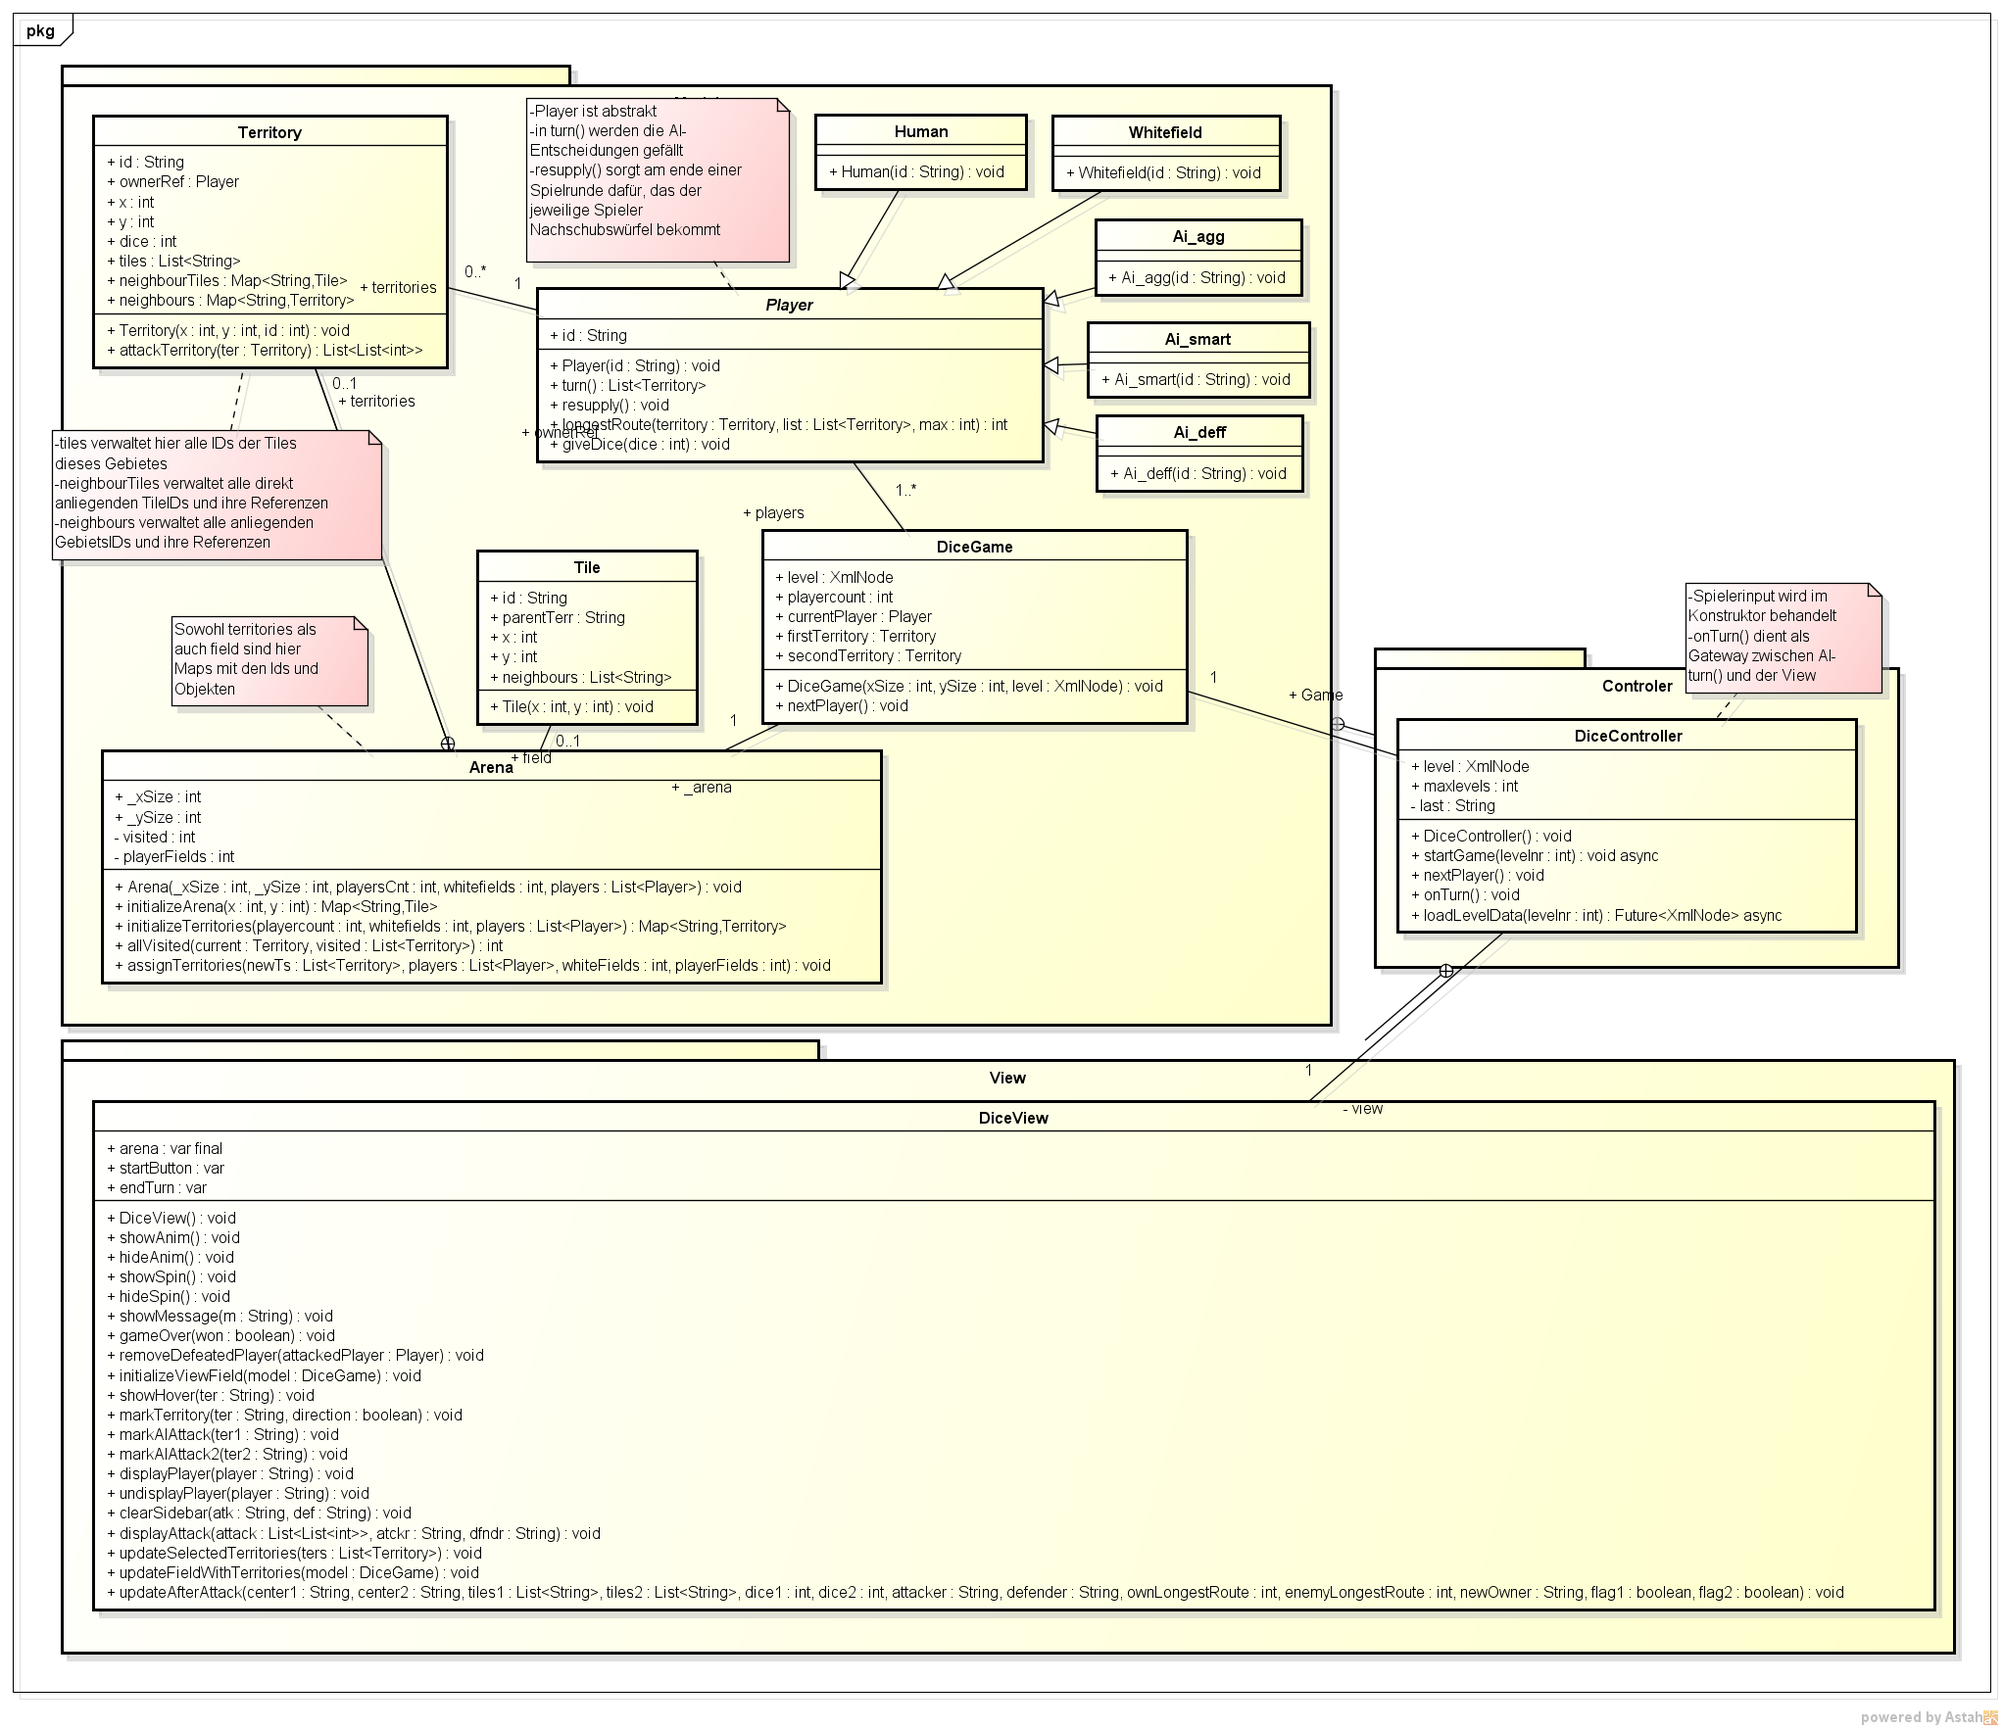
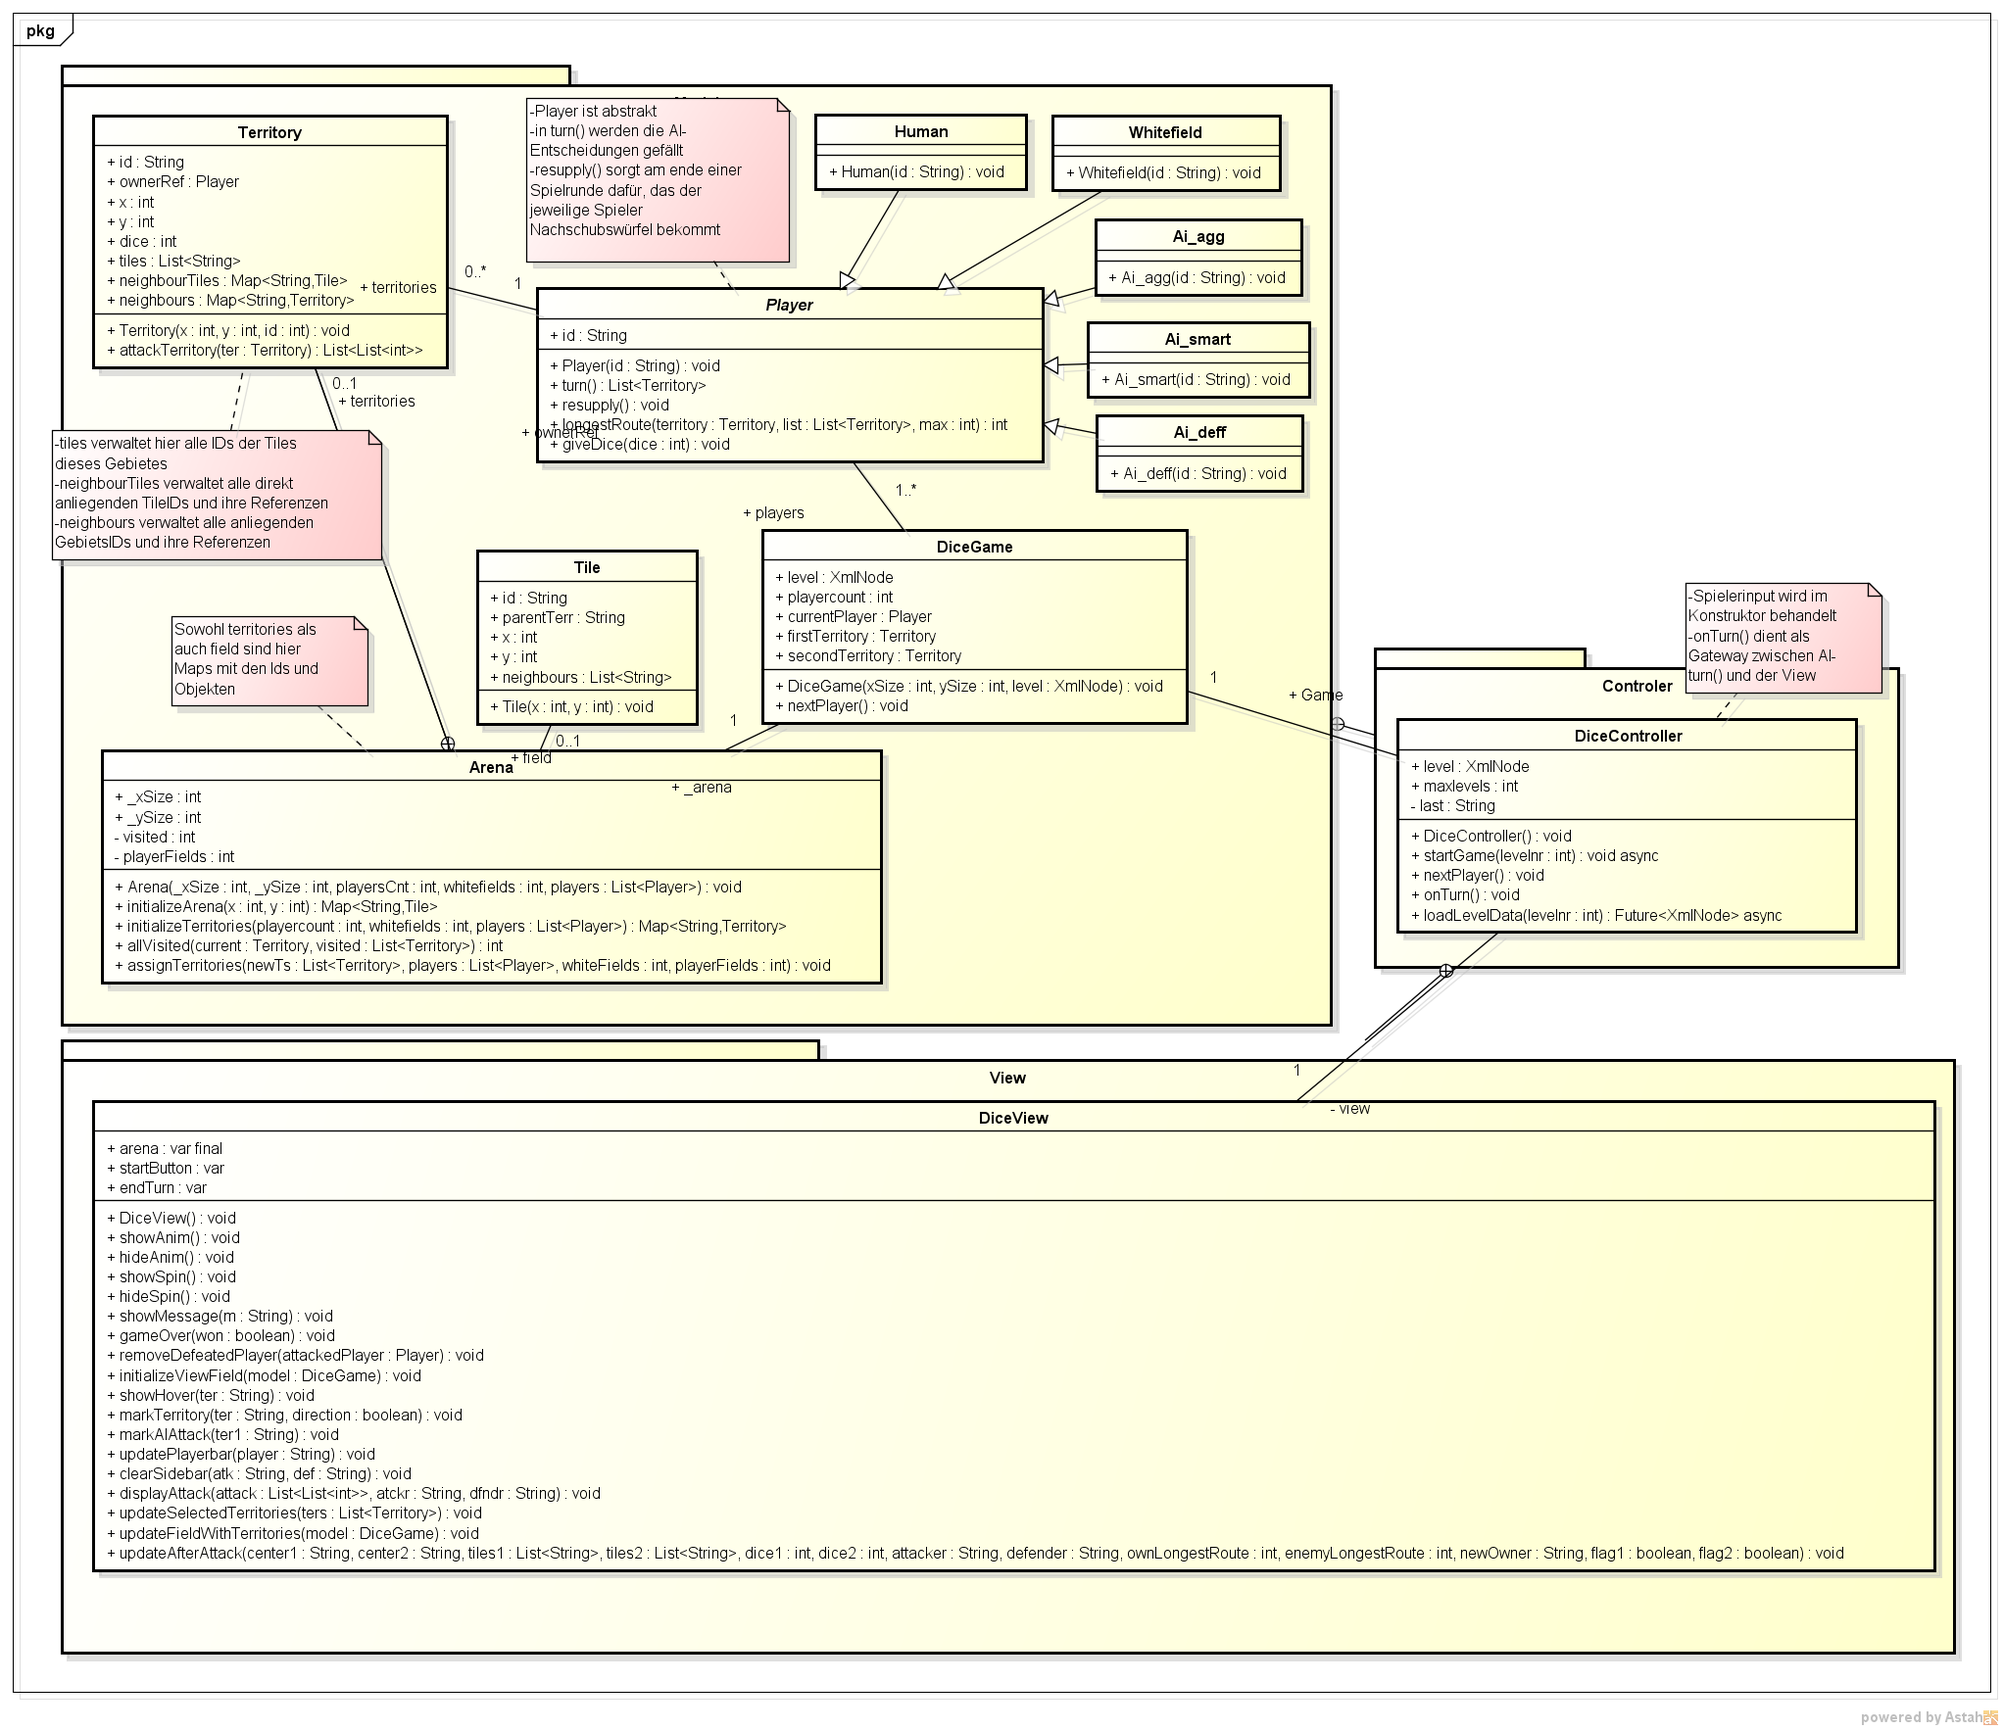
COmments af.-

Changed region(s): [[0.0308, 0.8409, 0.9863, 0.9343]]

diff --git a/lib/src/view.dart b/lib/src/view.dart
@@ -1,6 +1,23 @@
 part of DartyDiceWars;
 
+/*
+ * Viewpart of the MVC structure of DiceWars
+ * 
+ * Here, the internal results get displayed on the HTML document
+ */
 class DiceView {
+
+  /*
+   * View Variables:
+   * HtmlElement startButton - Button displayed for the gamestart
+   * HtmlElement endTurn - Button allowing the player to end his turn
+   * HtmlElement messageBar - Bar for displaying various messages to the player
+   * HtmlElement sideBar - Bar displaying all active players
+   * HtmlElement titleBar - upper Bar for displaying levelinformation
+   * HtmlElement loadingAnim - Element for displaying the rotating circle animation
+   * List<Element> spinningDiceAnim - List managing all the Elements of the rotating Die
+   * final arena - contains all the Elements in the arena, such as all hexagons
+   */
   HtmlElement get startButton => querySelector('#start');
   HtmlElement get endTurn => querySelector('#endTurn');
   HtmlElement get messageBar => querySelector('#messagebar');
@@ -10,8 +27,19 @@ class DiceView {
   List<Element> spinningDiceAnim = querySelectorAll('.cuboid-1');
   final arena = querySelector('#arena');
 
+  /*
+   * Constructor for the DiceView, not intended to do anything
+   */
   DiceView() {}
 
+  /*
+   * Generates a Field of hexagons with unique ids, allowing the field of Tiles generated in the Model to 
+   * be displayed for the Viewer. Also initializes the Sidebar.
+   * 
+   * DiceGame model - Model element containing all territories and tiles
+   * int maxLevel - Number of Levels given in 'levels.xml'
+   * List<int> pools - List with all starting numbers of maximum connected areas of all players
+   */
   void initializeViewField(DiceGame model, int maxLevel, List<int> pools) {
     sideBar.style.display = "";
     var field = model._arena;
@@ -19,7 +47,6 @@ class DiceView {
     for (int iy = 1; iy <= field._ySize; iy++) {
       String rowA = '<div class="hex-row">';
       String rowB = '<div class="hex-row even">';
-
       for (int ix = 1; ix <= field._xSize; ix++) {
         if (ix % 2 != 0) {
           rowA +=
@@ -49,15 +76,17 @@ class DiceView {
           .querySelector("." + model.players[i].id)
           .querySelector(".plName").text = "${model.players[i].id}";
     }
-
-    titleBar.text =
-        "Now playing Level ${model.level.attributes[0].value} of $maxLevel.";
+    titleBar.text = "Now playing Level ${model.level.attributes[0].value} of $maxLevel.";
     messageBar.text = "";
-
     endTurn.style.display = "";
     arena.innerHtml = htmlField;
   }
 
+  /*
+   * Updates the View with all Territories in the Model, used only for initialization
+   * 
+   * DiceGame model - Model element containing all territories
+   */
   void updateFieldWithTerritories(DiceGame model) {
     model._arena.territories.values.forEach((t) {
       t.tiles.forEach((ti) {
@@ -81,31 +110,54 @@ class DiceView {
     });
   }
 
+  /*
+   * switches the Loadinganimation on
+   */
   void showAnim() {
     loadingAnim.style.display = "";
   }
 
+  /*
+   * switches the Loadinganimation off
+   */
   void hideAnim() {
     loadingAnim.style.display = "none";
   }
 
+  /*
+   * switches the display of rotating dice on
+   */
   void showSpin() {
     spinningDiceAnim.forEach((e) {
       e.style.display = "";
     });
   }
 
+  /*
+   * switches the display of rotating dice off
+   */
   void hideSpin() {
     spinningDiceAnim.forEach((e) {
       e.style.display = "none";
     });
   }
-
+  
+  /*
+   * Displays a given message on the Messagebar
+   * 
+   * String m - Message that should be displayed
+   */
   void showMessage(String m) {
     messageBar.text = m;
   }
 
-  showHover(String ter) {
+  /*
+   * Displays the Hovereffect on the given area by assingning the CSS class (opacity: 0.9). 
+   * Note that only one area at a time can have the Hovereffect.
+   * 
+   * String ter - Territory that should get the Hover effect
+   */
+  void showHover(String ter) {
     if (ter == "") {
       List<Element> turnoff = querySelectorAll(".hover");
       for (HtmlElement t in turnoff) {
@@ -129,6 +181,12 @@ class DiceView {
     }
   }
 
+  /*
+   * Notifies the player about the end of the current game - either because he finished
+   * all levels or lost
+   * 
+   * bool won - true if the player won all levels or false if he got defeated
+   */
   void gameOver(bool won) {
     if (won) {
       endTurn.style.display = "none";
@@ -153,22 +211,35 @@ class DiceView {
     }
   }
 
+  /*
+   * Removes a given player from the displayed playerlist, taking him out of 
+   * the visible game
+   * 
+   * Player attackedPlayer - Player that just lost and thus needs to be removed
+   */
   void removeDefeatedPlayer(Player attackedPlayer) {
     sideBar.querySelector("." + attackedPlayer.id).style.display = "none";
   }
 
-  //ter = territory to mark, direction true = mark it, false = unmark it
-  markTerritory(String ter) {
+/*
+ * Marks a territory as selected by assigning the CSS class (opacity: 0.7)
+ * 
+ * String ter - territory that should be updated
+ */
+  void markTerritory(String ter) {
     showHover("");
     List<Element> tiles = querySelectorAll("[parent = '$ter']");
-
     for (HtmlElement t in tiles) {
       t.classes.toggle('selected');
     }
   }
 
-  //display first field getting colored, then wait
-  markAIAttack(String ter1) {
+  /*
+   * Marks a territory as selected for the AI attack by assigning the CSS class (opacity: 0.7) 
+   * 
+   * String ter1 - territory that should be updated
+   */
+  void markAIAttack(String ter1) {
     List<Element> tiles = querySelectorAll("[parent = '$ter1']");
     for (HtmlElement t in tiles) {
       t.classes.toggle('selected');
@@ -176,30 +247,30 @@ class DiceView {
   }
 
 
-  updatePlayerBar(String newPlayer, Player oldPlayer) {
+  /*
+   * Updates the PlayerBar with new information 
+   * 
+   * String newPlayer - id of the now current Player
+   * String oldPlayer - id of the last Player
+   */
+  void updatePlayerBar(String newPlayer, Player oldPlayer) {
     sideBar.querySelector("." + oldPlayer.id).querySelector(".plPool").text =
         "DicePool: ${oldPlayer.pool}";
     sideBar.querySelector("." + oldPlayer.id).classes.remove("attacker");
     sideBar.querySelector("." + newPlayer).classes.add("attacker");
   }
 
-
-  clearSidebar(String atk, String def) {
-    HtmlElement divAtk = sideBar.querySelector("." + atk);
-    HtmlElement divDef = sideBar.querySelector("." + def);
-    divAtk.attributes["class"] = "player $atk attacker";
-    divDef.attributes["class"] = "player $def";
-
-    divAtk.querySelector(".attackbar").text = "";
-    divDef.querySelector(".attackbar").text = "";
-  }
-
-  //display all the dies etc. WIP
-  displayAttack(List<List<int>> attack, String atckr, String dfndr) {
+  /*
+   * Displays the current attack to the Player, showing the results of all dice as well as 
+   * the winner of the fight.
+   * 
+   * List<List<int>> attack - results of the fight in the form [[Attackerdice],[Defenderdice]]
+   * String atckr - id of the Attacker
+   * String dfndr - id of the Defender
+   */
+  void displayAttack(List<List<int>> attack, String atckr, String dfndr) {
     HtmlElement divAtk = sideBar.querySelector("." + atckr);
     HtmlElement divDef = sideBar.querySelector("." + dfndr);
-
-    //attackbar.innerHtml = ;
     if (attack[0][0] == 9999) {
       showMessage("Emperor Dice Attack!");
       new Timer(new Duration(milliseconds: 1000),
@@ -210,7 +281,6 @@ class DiceView {
       new Timer(new Duration(milliseconds: 1000),
           () => showMessage("Now playing: " + atckr));
     }
-
     int sum1 = 0;
     int sum2 = 0;
     attack[0].forEach((f) {
@@ -241,7 +311,28 @@ class DiceView {
     }
   }
 
-  updateSelectedTerritories(List<Territory> ters) {
+/*
+ * Clears the Sidebar of all additionally displayed information from the fight
+ * 
+ * String atk - id of the Attacker
+ * String def - id of the Defender
+ */
+  void clearSidebar(String atk, String def) {
+    HtmlElement divAtk = sideBar.querySelector("." + atk);
+    HtmlElement divDef = sideBar.querySelector("." + def);
+    divAtk.attributes["class"] = "player $atk attacker";
+    divDef.attributes["class"] = "player $def";
+
+    divAtk.querySelector(".attackbar").text = "";
+    divDef.querySelector(".attackbar").text = "";
+  }
+  
+  /*
+   * Updates all the given territories with current informations. Used at end of turn
+   * 
+   * List<Territory> ters - List of all territories that need to be updated
+   */
+  void updateSelectedTerritories(List<Territory> ters) {
     for (Territory t in ters) {
       t.tiles.forEach((ti) {
         HtmlElement change = arena.querySelector("#" + ti);
@@ -257,7 +348,6 @@ class DiceView {
             }
           }
         }
-        //  HtmlElement change = arena.querySelector("#" + ti);
         change.setAttribute("class", "hex ${t.ownerRef.id}");
         change.setAttribute("owner", t.ownerRef.id);
         change.setAttribute("parent", t.id);
@@ -265,13 +355,29 @@ class DiceView {
     }
   }
 
-  updateAfterAttack(String center1, String center2, List<String> tiles1,
+  /*
+   * Updates the arena with the new information after an attack
+   * 
+   * String center1 - Centerpoint of the attackerterritory
+   * String center2 - Centerpoint of the defenderterritory
+   * List<String> tiles1- List containing all tiles of the attackerterritory
+   * List<String> tiles2- List containing all tiles of the defenderterritory
+   * int dice1 - new number of dice in attackerterritory
+   * int dice2 - new number of dice in defenderterritory
+   * String attacker - id of the attacking player
+   * String defender - id of the defending player
+   * int ownLongestRoute - longest connected Areachain of the attacker
+   * int enemyLongestRoute - longest connected Areachain of the defender
+   * String newOwner - new Owner of the attacked Territory
+   * bool flag1 - boolean for updating the Emperor Die location
+   * bool flag2 - boolean for updating the Emperor Die location
+   */
+  void updateAfterAttack(String center1, String center2, List<String> tiles1,
       List<String> tiles2, int dice1, int dice2, String attacker,
       String defender, int ownLongestRoute, int enemyLongestRoute,
       String newOwner, bool flag1, bool flag2) {
     for (String ti in tiles1) {
       HtmlElement change = arena.querySelector("#" + ti);
-
       if (center1 == ti) {
         change.querySelector(".root").text = dice1.toString();
         if (flag1) {
@@ -280,8 +386,6 @@ class DiceView {
           change.querySelector(".root").classes.toggle("emperor", false);
         }
       }
-
-      //  HtmlElement change = arena.querySelector("#" + ti);
       change.setAttribute("class", "hex $attacker");
       change.setAttribute("owner", attacker);
     }
@@ -296,12 +400,9 @@ class DiceView {
           change.querySelector(".root").classes.toggle("emperor", false);
         }
       }
-
-      //  HtmlElement change = arena.querySelector("#" + ti);
       change.setAttribute("class", "hex $newOwner");
       change.setAttribute("owner", newOwner);
     }
-
     //UPDATE THE PLAYERBAR WITH INFO ON THE MAX CONNECTED TILES
     HtmlElement divOwn1 = sideBar.querySelector("." + attacker);
     HtmlElement divOwn2 = sideBar.querySelector("." + defender);

diff --git a/lib/src/control.dart b/lib/src/control.dart
@@ -247,7 +247,7 @@ class DiceController {
    * Selects the next player and ends the game if there is only one player left.
    * Also decides what to do when the game is over.
    */
-  nextTurn() {
+  void nextTurn() {
     if (!(game.players.length > 2)) {
       if (game.currentPlayer.id == "human") {
         view.showMessage("You won the game!");
@@ -277,7 +277,7 @@ class DiceController {
     List<Territory> toUpdate = game.currentPlayer.territories;
     game.nextPlayer();
     view.updateSelectedTerritories(toUpdate);
-    view.displayPlayer(game.currentPlayer.id, oldPlayer);
+    view.updatePlayerBar(game.currentPlayer.id, oldPlayer);
     print("Next Player: " + game.currentPlayer.id);
     view.showMessage("Now playing: " + game.currentPlayer.id);
     if (game.currentPlayer.id != "human") {
@@ -293,7 +293,7 @@ class DiceController {
    * end the turn. Then the next Player will get selected with nextTurn()
    * Gives the results to the View
    */
-  onTurn() {
+  void onTurn() {
     int waitfor = 0;
     bool turn = true;
     while (turn) {

diff --git a/lib/src/model.dart b/lib/src/model.dart
@@ -66,7 +66,7 @@ class DiceGame {
    * Initialises the Startingamount of Dice for all players based on 
    * the starting amount of territories and the handycap
    */
-  initDice(List<Player> list, int handycap) {
+  void initDice(List<Player> list, int handycap) {
     int sum = 0;
     for (int i = 1; i < list.length; i++) {
       int temp = list[i].territories.length * 3;
@@ -85,7 +85,7 @@ class DiceGame {
   /*
    * Resupplies the last player via resupply() and then selects the next player
    */
-  nextPlayer() {
+  void nextPlayer() {
     if (currentPlayer.id != "whitefield") {
       currentPlayer.resupply();
     }
@@ -601,7 +601,7 @@ abstract class Player {
    * 
    * int dice - number of dice 
    */
-  giveDice(int dice) {
+  void giveDice(int dice) {
     List<Territory> list = new List<Territory>();
     for (int i = 0; i < territories.length; i++) {
       if (territories[i].dice < 8) list.add(territories[i]);
